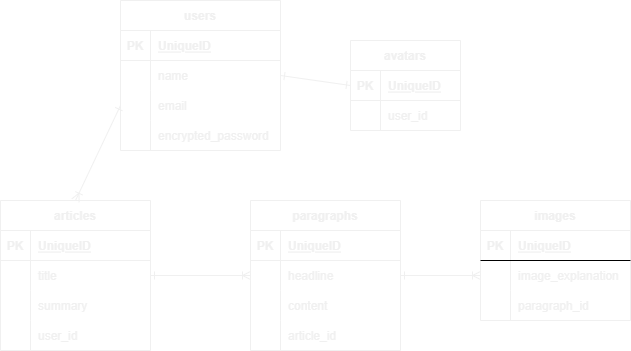
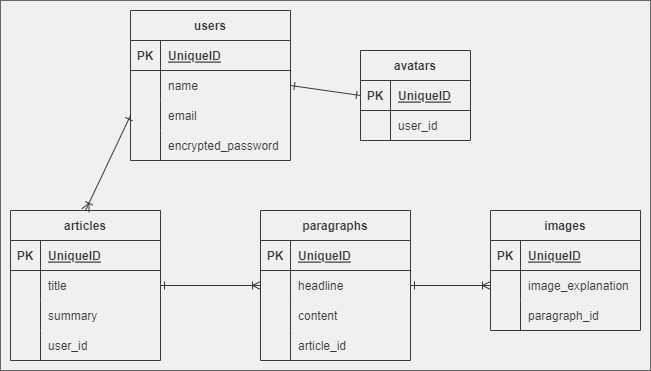
ER図、画面遷移図の修正

diff --git a/app/assets/stylesheets/style.css b/app/assets/stylesheets/style.css
@@ -807,6 +807,9 @@ input.user-form-item {
   }
 }/*# sourceMappingURL=style.css.map */
 @media (max-width: 425px) {
+  .header-logo {
+    font-size: 24px;
+  }
   .cancel-btn, .reset-btn, .save-btn {
     width: 100%;
   }

diff --git a/README.md b/README.md
@@ -97,11 +97,11 @@ https://docs.google.com/spreadsheets/d/1JRbDY71gTuhDGhRW3pDavLwDgaZRleQ_kkupSTxs
 
 # データベース設計
 
-[![Image from Gyazo](https://i.gyazo.com/2b8791edb93b4f4e5063b0694b6f4215.png)](https://gyazo.com/2b8791edb93b4f4e5063b0694b6f4215)
+[![Image from Gyazo](https://i.gyazo.com/8fe86bce7f17de3c94707ce98f1f3bd7.png)](https://gyazo.com/8fe86bce7f17de3c94707ce98f1f3bd7)
 
 # 画面遷移図
 
-[![Image from Gyazo](https://i.gyazo.com/3d73c1033a1d939bf7c859ec7bde2607.png)](https://gyazo.com/3d73c1033a1d939bf7c859ec7bde2607)
+[![Image from Gyazo](https://i.gyazo.com/7a92af7a21014e5dea9d666541732091.png)](https://gyazo.com/7a92af7a21014e5dea9d666541732091)
 
 # 開発環境
 * HTML<br>
